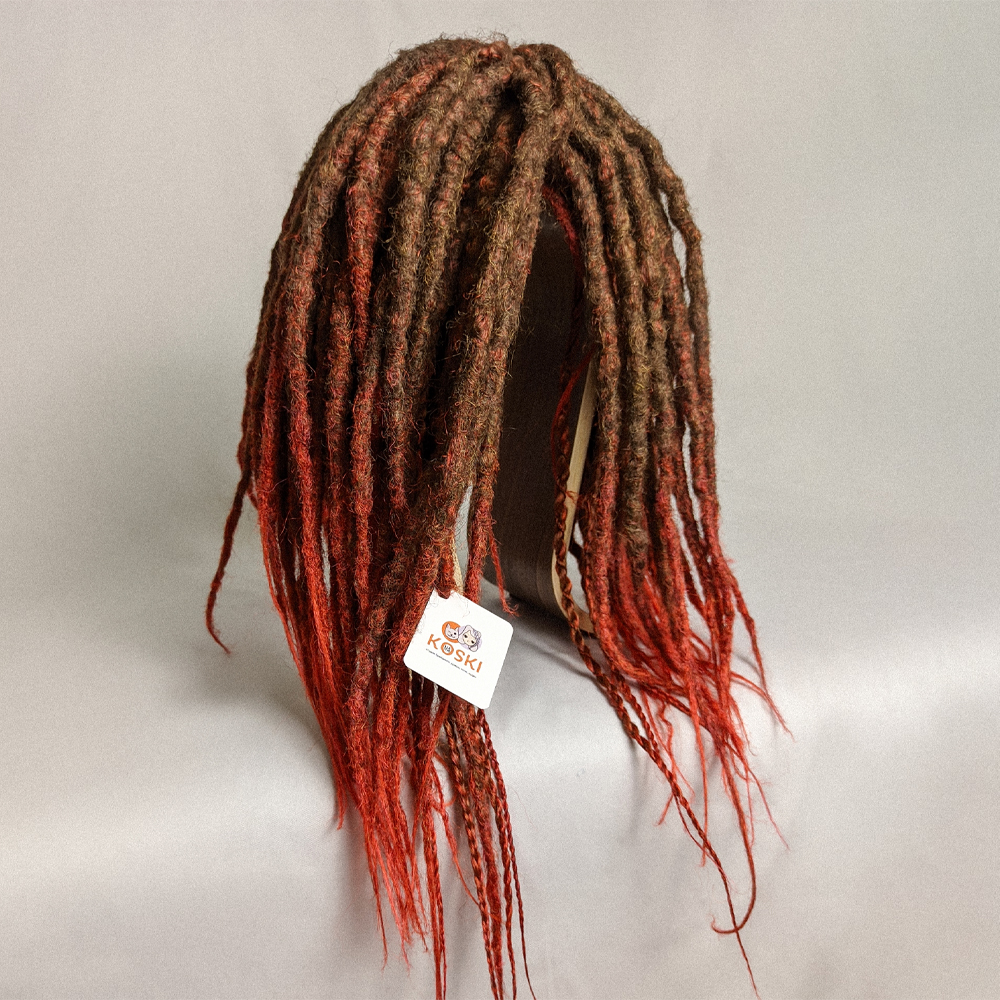
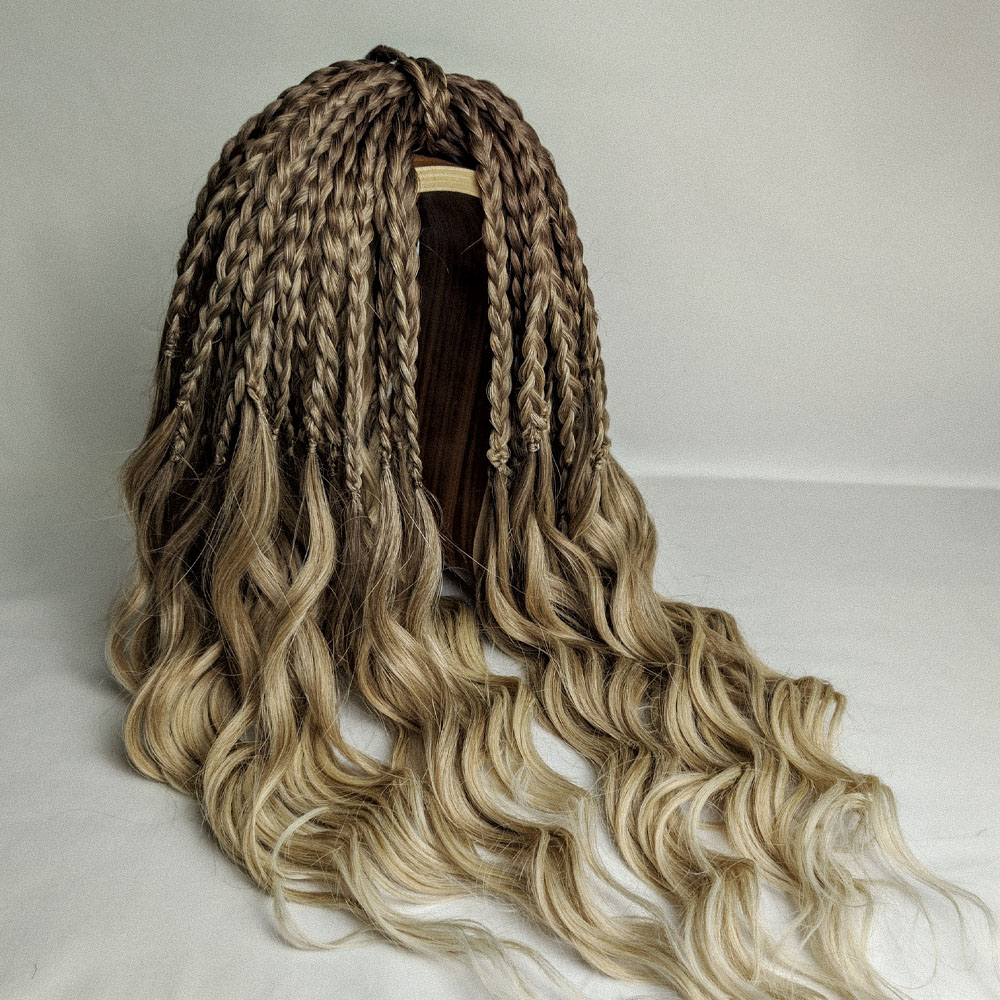
12

diff --git a/index.html b/index.html
@@ -91,14 +91,13 @@
       .svc-track { gap: 1.5rem; padding-left: 2rem; padding-right: 2rem; }
       .svc-pad { padding: 2.5rem; }
 
-      /* готовые комплекты: на десктопе без карусели — три карточки в ряд и баннер-призыв на всю ширину */
-      #ready-sets-track { display: grid; grid-template-columns: repeat(3, minmax(0, 1fr)); gap: 1.5rem; overflow: visible; padding-bottom: 0; }
-      #ready-sets-track > * { width: auto; }
+      /* готовые комплекты: и на десктопе лента сама едет по горизонтали */
+      #ready-sets-track { gap: 1.5rem; padding-left: 2rem; padding-right: 2rem; }
+      #ready-sets-track > a { width: 400px; }
     }
 
-    @media (max-width: 767px) {
-      #ready-sets-track.ready-looping { scroll-behavior: auto; }
-    }
+    /* автопрокрутка двигает scrollLeft сама, плавность браузера ей мешает */
+    #ready-sets-track.ready-looping { scroll-behavior: auto; }
 
     /* костыли и фиксы, когда тейлвинда не хватило */
     body {
@@ -359,12 +358,9 @@
         <div id="ready-sets-track" class="flex overflow-x-auto snap-x snap-mandatory gap-4 px-4 pb-8 hide-scrollbar scroll-smooth">
           
           <!-- карточка 1 -->
-          <a href="https://vk.com/market-211294353" target="_blank" rel="noopener noreferrer" class="w-[300px] md:w-[400px] shrink-0 flex flex-col gap-3 group cursor-pointer snap-center snap-always no-underline">
-            <div class="text-left pl-4 desk:pl-6">
-              <h3 class="text-lg font-sans font-medium text-white group-hover:text-accent-orange transition-colors">ДЕ Дреды</h3>
-            </div>
-            <div class="w-full aspect-square rounded-[32px] overflow-hidden relative border border-black/5">
-              <img src="img/kits/1.jpg" alt="" class="w-full h-full object-cover transition-transform duration-700 group-hover:scale-105" loading="lazy" decoding="async" />
+          <a href="https://vk.com/market-211294353" target="_blank" rel="noopener noreferrer" class="w-[300px] md:w-[400px] shrink-0 flex flex-col group cursor-pointer snap-center snap-always no-underline">
+            <div class="w-full aspect-[4/3] desk:aspect-square rounded-[32px] overflow-hidden relative border border-black/5">
+              <img src="img/kits/1.jpg" alt="ДЕ дреды" class="w-full h-full object-cover transition-transform duration-700 group-hover:scale-105" loading="lazy" decoding="async" />
               <div class="absolute bottom-6 right-6 flex items-center justify-center text-btn-dark transition-transform duration-300 group-hover:-translate-y-1 group-hover:translate-x-1">
                 <span aria-hidden="true" class="material-icons text-3xl">arrow_outward</span>
               </div>
@@ -372,12 +368,9 @@
           </a>
 
           <!-- карточка 2 -->
-          <a href="https://vk.com/market-211294353" target="_blank" rel="noopener noreferrer" class="w-[300px] md:w-[400px] shrink-0 flex flex-col gap-3 group cursor-pointer snap-center snap-always no-underline">
-            <div class="text-left pl-4 desk:pl-6">
-              <h3 class="text-lg font-sans font-medium text-white group-hover:text-accent-orange transition-colors">Гофродреды</h3>
-            </div>
-            <div class="w-full aspect-square rounded-[32px] overflow-hidden relative border border-black/5">
-              <img src="img/kits/2.jpg" alt="" class="w-full h-full object-cover transition-transform duration-700 group-hover:scale-105" loading="lazy" decoding="async" />
+          <a href="https://vk.com/market-211294353" target="_blank" rel="noopener noreferrer" class="w-[300px] md:w-[400px] shrink-0 flex flex-col group cursor-pointer snap-center snap-always no-underline">
+            <div class="w-full aspect-[4/3] desk:aspect-square rounded-[32px] overflow-hidden relative border border-black/5">
+              <img src="img/kits/2.jpg" alt="Гофродреды" class="w-full h-full object-cover transition-transform duration-700 group-hover:scale-105" loading="lazy" decoding="async" />
               <div class="absolute bottom-6 right-6 flex items-center justify-center text-btn-dark transition-transform duration-300 group-hover:-translate-y-1 group-hover:translate-x-1">
                 <span aria-hidden="true" class="material-icons text-3xl">arrow_outward</span>
               </div>
@@ -385,12 +378,29 @@
           </a>
 
           <!-- карточка 3 -->
-          <a href="https://vk.com/market-211294353" target="_blank" rel="noopener noreferrer" class="w-[300px] md:w-[400px] shrink-0 flex flex-col gap-3 group cursor-pointer snap-center snap-always no-underline">
-            <div class="text-left pl-4 desk:pl-6">
-              <h3 class="text-lg font-sans font-medium text-white group-hover:text-accent-orange transition-colors">Локоны ариэль долли</h3>
+          <a href="https://vk.com/market-211294353" target="_blank" rel="noopener noreferrer" class="w-[300px] md:w-[400px] shrink-0 flex flex-col group cursor-pointer snap-center snap-always no-underline">
+            <div class="w-full aspect-[4/3] desk:aspect-square rounded-[32px] overflow-hidden relative border border-black/5">
+              <img src="img/kits/3.jpg" alt="Локоны ариэль долли" class="w-full h-full object-cover transition-transform duration-700 group-hover:scale-105" loading="lazy" decoding="async" />
+              <div class="absolute bottom-6 right-6 flex items-center justify-center text-btn-dark transition-transform duration-300 group-hover:-translate-y-1 group-hover:translate-x-1">
+                <span aria-hidden="true" class="material-icons text-3xl">arrow_outward</span>
+              </div>
             </div>
-            <div class="w-full aspect-square rounded-[32px] overflow-hidden relative border border-black/5">
-              <img src="img/kits/3.jpg" alt="" class="w-full h-full object-cover transition-transform duration-700 group-hover:scale-105" loading="lazy" decoding="async" />
+          </a>
+
+          <!-- карточка 4 -->
+          <a href="https://vk.com/market-211294353" target="_blank" rel="noopener noreferrer" class="w-[300px] md:w-[400px] shrink-0 flex flex-col group cursor-pointer snap-center snap-always no-underline">
+            <div class="w-full aspect-[4/3] desk:aspect-square rounded-[32px] overflow-hidden relative border border-black/5">
+              <img src="img/kits/4.jpg" alt="Готовый комплект" class="w-full h-full object-cover transition-transform duration-700 group-hover:scale-105" loading="lazy" decoding="async" />
+              <div class="absolute bottom-6 right-6 flex items-center justify-center text-btn-dark transition-transform duration-300 group-hover:-translate-y-1 group-hover:translate-x-1">
+                <span aria-hidden="true" class="material-icons text-3xl">arrow_outward</span>
+              </div>
+            </div>
+          </a>
+
+          <!-- карточка 5 -->
+          <a href="https://vk.com/market-211294353" target="_blank" rel="noopener noreferrer" class="w-[300px] md:w-[400px] shrink-0 flex flex-col group cursor-pointer snap-center snap-always no-underline">
+            <div class="w-full aspect-[4/3] desk:aspect-square rounded-[32px] overflow-hidden relative border border-black/5">
+              <img src="img/kits/5.jpg" alt="Готовый комплект" class="w-full h-full object-cover transition-transform duration-700 group-hover:scale-105" loading="lazy" decoding="async" />
               <div class="absolute bottom-6 right-6 flex items-center justify-center text-btn-dark transition-transform duration-300 group-hover:-translate-y-1 group-hover:translate-x-1">
                 <span aria-hidden="true" class="material-icons text-3xl">arrow_outward</span>
               </div>
@@ -400,7 +410,7 @@
         </div>
 
         <!-- баннер-призыв: отдельно от карусели, на всю ширину, без подписи -->
-        <a href="https://vk.com/market-211294353" target="_blank" rel="noopener noreferrer" aria-label="Посмотреть все комплекты" class="kit-cta group block mx-4 desk:mt-6 h-[180px] rounded-[32px] overflow-hidden relative border border-white/10 shadow-lg no-underline">
+        <a href="https://vk.com/market-211294353" target="_blank" rel="noopener noreferrer" aria-label="Посмотреть все комплекты" class="kit-cta group block mx-4 desk:mx-8 mt-2 desk:mt-6 h-[88px] desk:h-[180px] rounded-[32px] overflow-hidden relative border border-white/10 shadow-lg no-underline">
           <video
             autoplay
             loop
@@ -414,7 +424,7 @@
             <source src="img/others/1.mp4" type="video/mp4">
           </video>
           <div class="absolute inset-0 bg-black/60"></div>
-          <span class="absolute bottom-6 right-6 bg-accent-orange text-white px-5 py-2 rounded-full text-xs font-medium shadow-md transition-transform group-hover:scale-105 z-10">посмотреть все</span>
+          <span class="absolute bottom-6 right-6 bg-accent-orange text-white px-5 py-2 rounded-full text-xs font-medium shadow-md transition-transform group-hover:scale-105 z-10 max-md:bottom-1/2 max-md:translate-y-1/2">посмотреть все</span>
         </a>
       </div>
     </div>
@@ -1399,11 +1409,11 @@
       }
     }
 
-    // Бесконечная карусель готовых комплектов только на мобильных экранах.
+    // Бесконечная карусель готовых комплектов с автопрокруткой (мобильная и десктопная версии).
     // Клонируем карточки по краям и незаметно переносим позицию при достижении края.
     function setupReadySetsInfiniteLoop() {
       const track = document.getElementById('ready-sets-track');
-      if (!track || window.innerWidth >= 768 || track.dataset.loopReady === 'true') return;
+      if (!track || track.dataset.loopReady === 'true') return;
 
       const originals = Array.from(track.children);
       if (originals.length < 2) return;
@@ -1450,6 +1460,34 @@
           wrapping = true; track.scrollLeft -= totalMiddleWidth; wrapping = false;
         }
       }, { passive: true });
+
+      // автопрокрутка: пауза при наведении и касании, не едет вне экрана и при «уменьшить движение»
+      if (window.matchMedia('(prefers-reduced-motion: reduce)').matches) return;
+      const SPEED = 40; // px в секунду
+      let pos = track.scrollLeft, lastSet = pos, last = 0, pausedUntil = 0, hovering = false, visible = true;
+      const pause = (ms) => { pausedUntil = performance.now() + ms; };
+      track.addEventListener('pointerenter', e => { if (e.pointerType === 'mouse') hovering = true; });
+      track.addEventListener('pointerleave', e => { if (e.pointerType === 'mouse') hovering = false; });
+      track.addEventListener('touchstart', () => pause(1e9), { passive: true });
+      track.addEventListener('touchend', () => pause(2500), { passive: true });
+      track.addEventListener('touchcancel', () => pause(2500), { passive: true });
+      track.addEventListener('wheel', () => pause(2000), { passive: true });
+      if ('IntersectionObserver' in window) {
+        new IntersectionObserver(([en]) => { visible = en.isIntersecting; }).observe(track);
+      }
+      const tick = (now) => {
+        const dt = Math.min(now - (last || now), 50) / 1000;
+        last = now;
+        if (visible && !hovering && !document.hidden && now >= pausedUntil) {
+          const cur = track.scrollLeft;
+          if (Math.abs(cur - lastSet) > 2) pos = cur; // пользователь или зацикливание сдвинули ленту
+          pos += SPEED * dt;
+          track.scrollLeft = pos;
+          lastSet = pos;
+        }
+        requestAnimationFrame(tick);
+      };
+      requestAnimationFrame(tick);
     }
 
     let scrollTimeout;
